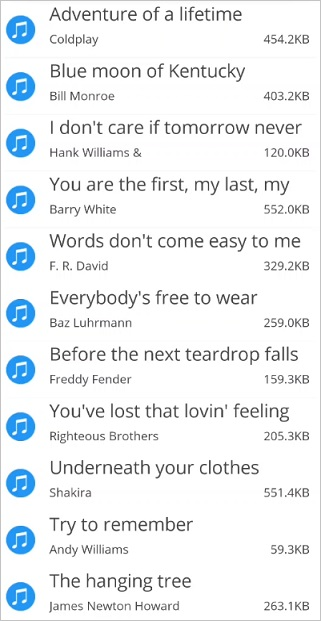
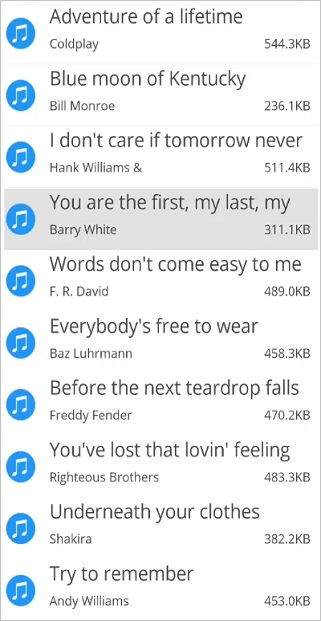
MAUI-833: Changed the images.

diff --git a/MAUI/ListView/selection.md b/MAUI/ListView/selection.md
@@ -73,12 +73,23 @@ public class SelectionViewModel : INotifyPropertyChanged
     private async void GenerateSource()
     {
         var random = new Random();
+        for (int i = 0; i < SongsNames.Count(); i++)
+        {
+            var info = new MusicInfo()
+            {
+                SongTitle = SongsNames[i],
+                SongAuther = SongAuthers[i],
+                SongSize = random.Next(50, 600).ToString() + "." + random.Next(1, 10) / 2 + "KB",
+                SongThumbnail = ImageSource.FromResource("ListViewMaui.Images.SongThumbnail.png"),
+            };
+            musicInfo.Add(info);
+        }
         SelectedItems.Add(MusicInfo[0]);
     }
 }
 
-listView.SelectedItems.Add (viewModel.Items [4]);
-listView.SelectedItems.Add (viewModel.Items[5]);
+listView.SelectedItems.Add (viewModel.MusicInfo [4]);
+listView.SelectedItems.Add (viewModel.MusicInfo[5]);
 {% endhighlight %}
 {% endtabs %}
 
@@ -400,7 +411,7 @@ public partial class MainPage : ContentPage
 
 To bring the [SfListView.SelectedItem](https://help.syncfusion.com/cr/maui/Syncfusion.Maui.ListView.SfListView.html#Syncfusion_Maui_ListView_SfListView_SelectedItem) automatically into the view when it changes at runtime by calling the [ScrollToRowIndex](https://help.syncfusion.com/cr/maui/Syncfusion.Maui.ListView.ListViewLayout.html#Syncfusion_Maui_ListView_ListViewLayout_ScrollToRowIndex_System_Int32_Microsoft_Maui_Controls_ScrollToPosition_System_Boolean_) method.  
 
-In linear layout, you can get the row index of `SfListView.SelectedItem` and determine whether or not header and group header are used. 
+In linear layout, you can get the row index of `SfListView.SelectedItem` and  resolve if header and group header are used.
 
 {% tabs %}
 {% highlight c# %}
@@ -417,6 +428,8 @@ public partial class MainPage : ContentPage
     if (e.PropertyName == "SelectedItem")
     {
        var selectedItemIndex = listView.DataSource.DisplayItems.IndexOf(listView.SelectedItem);
+       selectedItemIndex += (listView.HeaderTemplate != null && !listView.IsStickyHeader || !listView.IsStickyGroupHeader) ? 1 : 0;
+       selectedItemIndex -= (listView.GroupHeaderTemplate != null && listView.IsStickyGroupHeader) ? 1 : 0;
        (listView.LayoutManager as LinearLayout).ScrollToRowIndex(selectedItemIndex);
     }
   }
@@ -449,8 +462,6 @@ public partial class MainPage : ContentPage
 }
 {% endhighlight %}
 {% endtabs %}
-
-![MAUI ListView gets the index of selected item](Images/selection/maui-listview-index-of-selected-item.jpg)
 
 ### Display selection when ItemTemplate contains image
 
